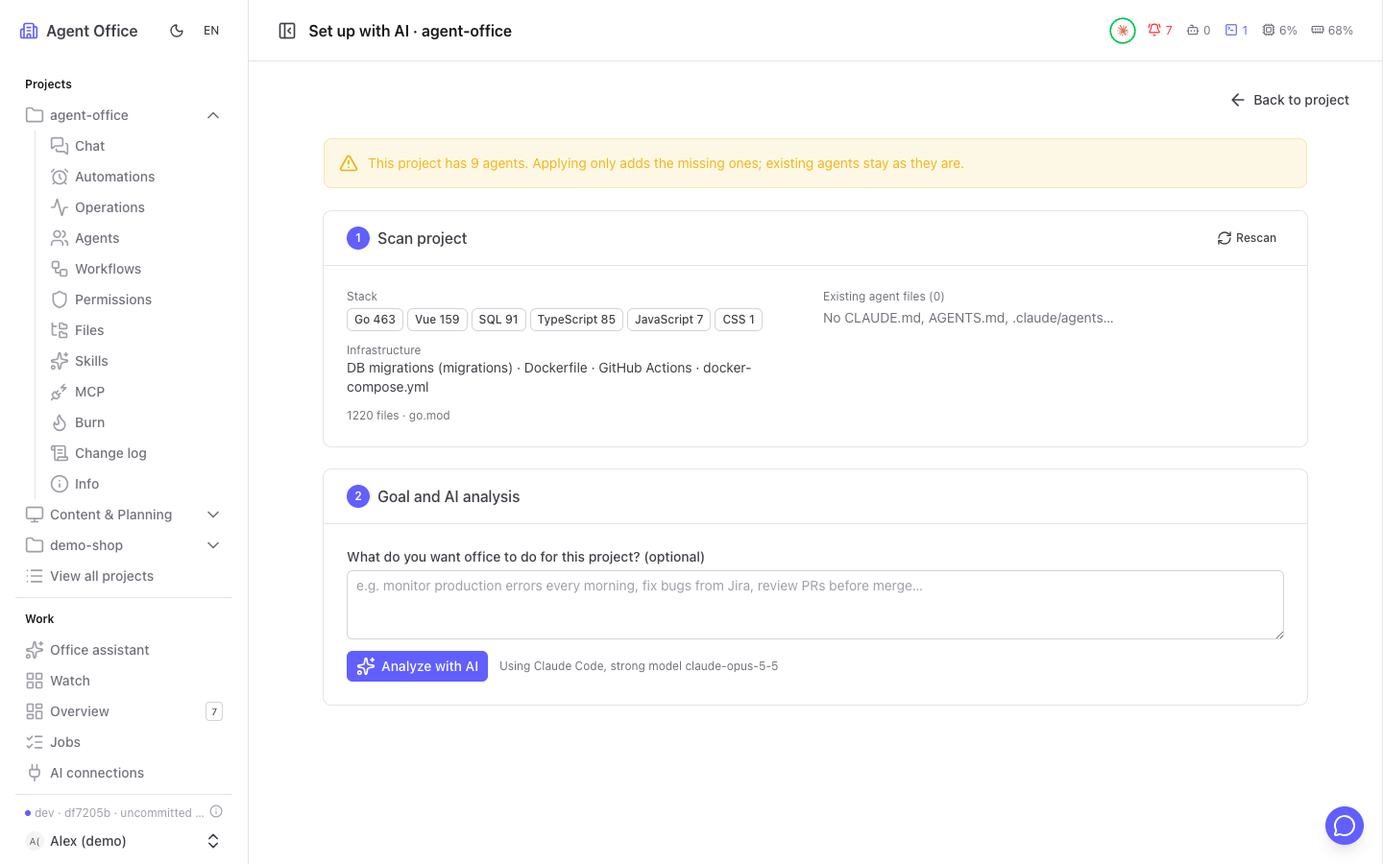
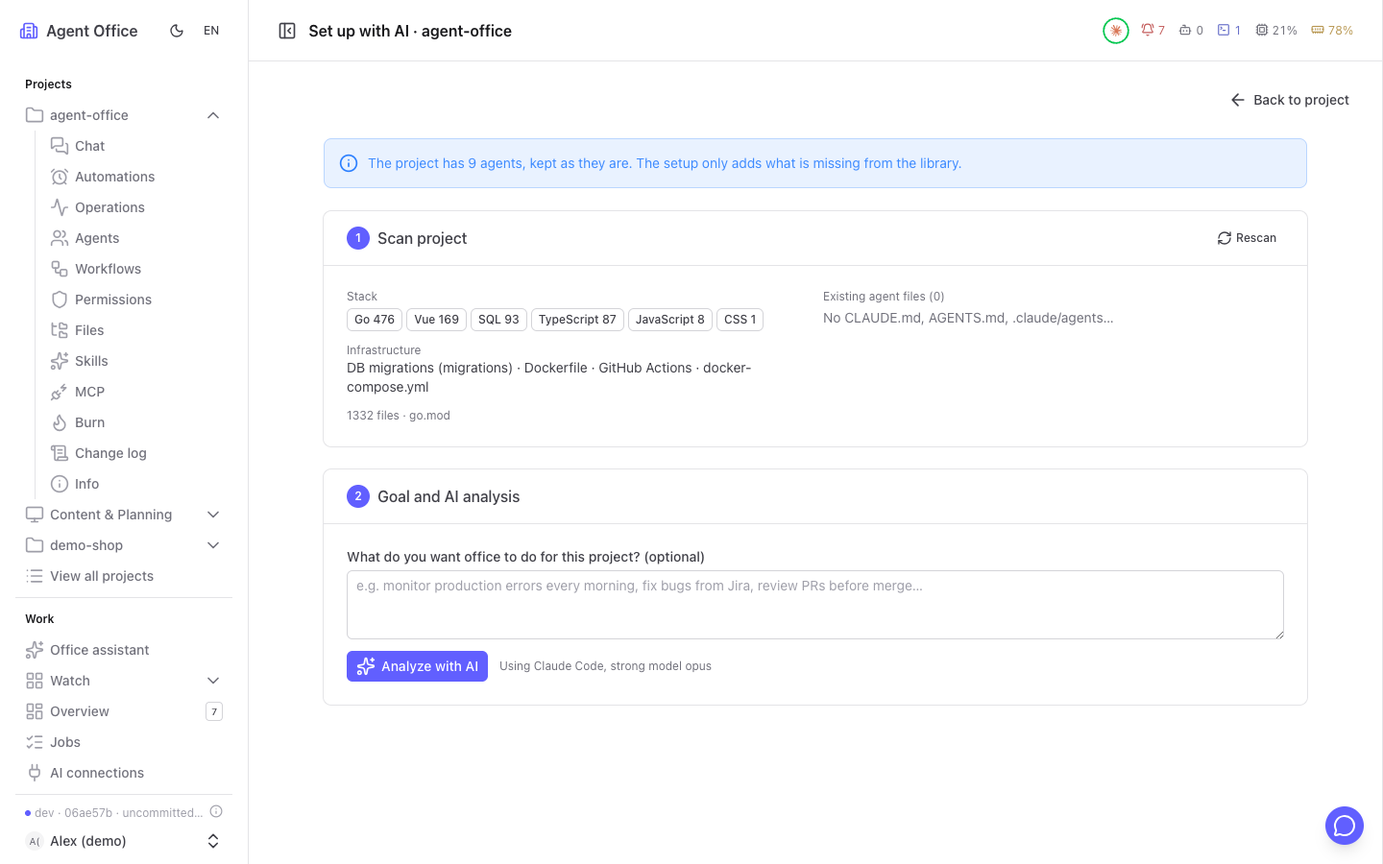
fix(workflow): a seat named as the default agent goes to it; guide without starter packs
Suggest never bound the default agent, so a council whose planner is the
default gave the "Lập kế hoạch" seat to the executor. The default agent
now takes the seat named as it is, and an agent named for a seat is
preferred. The guide describes agents picked from the library (ADR-166),
with fresh screenshots.

diff --git a/docs/guide/vi.html b/docs/guide/vi.html
@@ -123,7 +123,7 @@
   </ol>
   <h4>Đội của bạn</h4>
   <ol>
-    <li><a href="#models">Mô hình tổ chức</a></li>
+    <li><a href="#models">Agent từ thư viện</a></li>
     <li><a href="#agents">Agent</a></li>
     <li><a href="#chat">Chat</a></li>
     <li><a href="#approvals">Duyệt đề xuất</a></li>
@@ -174,7 +174,7 @@
   <h2><span class="num">1</span>agent-office là gì</h2>
   <p class="intro">Hãy hình dung một văn phòng mà nhân viên là các agent AI, còn bạn là người quản lý.</p>
   <div class="cards">
-    <div class="card"><b>👥 Mỗi project một đội</b><span>Trưởng nhóm, kỹ sư, QA, reviewer… xếp theo Solo, Team, Tam quyền hoặc mô hình bạn tự tạo.</span></div>
+    <div class="card"><b>👥 Mỗi project một đội</b><span>Trưởng nhóm, kỹ sư, QA, reviewer… chọn từ thư viện, hoặc để AI chọn theo repo.</span></div>
     <div class="card"><b>🌳 Sửa trong bản sao riêng</b><span>Mỗi chat làm trong git worktree riêng. Bạn xem diff trước khi có gì vào repo.</span></div>
     <div class="card"><b>🔐 Quyền theo từng hành động</b><span>Đọc, sửa, chạy lệnh, khởi động lại container, commit, push: mỗi thứ được phép, phải hỏi, hoặc bị chặn.</span></div>
     <div class="card"><b>⏰ Luôn làm việc</b><span>Lịch chạy, webhook, bot chat, giám sát và Burn giữ công việc chạy cả khi bạn ngủ.</span></div>
@@ -185,7 +185,7 @@
   <table>
     <tr><th>Từ</th><th>Nghĩa</th></tr>
     <tr><td><b>Project</b></td><td>Một thư mục (thường là git repo), một link git để clone, hoặc trợ lý không thư mục cho việc ngoài code.</td></tr>
-    <tr><td><b>Mô hình tổ chức</b></td><td>Tập agent của một project và cách họ phối hợp.</td></tr>
+    <tr><td><b>Thư viện</b></td><td>Mẫu agent, quy trình, tự động hóa, skill và MCP để thêm vào project rồi chỉnh.</td></tr>
     <tr><td><b>Agent</b></td><td>Một nhân viên AI: vai trò, hướng dẫn, kết nối AI, hạng model, quyền, trí nhớ.</td></tr>
     <tr><td><b>Chat</b></td><td>Cuộc trò chuyện với một hoặc nhiều agent. Mỗi chat có worktree riêng.</td></tr>
     <tr><td><b>Đề xuất</b></td><td>Việc agent muốn làm nhưng cần người duyệt: một diff, một lệnh, khởi động lại, đổi cài đặt.</td></tr>
@@ -205,7 +205,7 @@ make ui-install &amp;&amp; make ui-build  # → dashboard/.output
   <ol class="steps">
     <li>Mở <code>http://localhost:2704</code> (hoặc địa chỉ server) và đăng nhập bằng <b><code>admin</code> / <code>admin</code></b>.</li>
     <li>Đặt email và mật khẩu của bạn. Trước khi đặt, tài khoản mặc định không làm được gì khác.</li>
-    <li>Làm theo checklist ở <b>Tổng quan → Máy</b>: kết nối AI → project → mô hình tổ chức.</li>
+    <li>Làm theo checklist ở <b>Tổng quan → Máy</b>: kết nối AI → project → agent.</li>
     <li>Tùy chọn: <code>./bin/office service install --now</code> để office tự bật mỗi khi đăng nhập máy (LaunchAgent trên macOS, systemd user unit trên Linux).</li>
   </ol>
   <figure><img src="images/vi/01-login.png" alt="Trang đăng nhập" loading="lazy"><figcaption>Đăng nhập. Đăng nhập sai bị giới hạn theo IP.</figcaption></figure>
@@ -262,12 +262,12 @@ make ui-install &amp;&amp; make ui-build  # → dashboard/.output
 <section id="projects">
   <h2><span class="num">5</span>Project</h2>
   <p class="intro">Mọi công việc đều nằm trong một project.</p>
-  <figure><img src="images/vi/03-projects.png" alt="Danh sách project" loading="lazy"><figcaption>Ba kiểu project: repo dùng mô hình Team, repo dùng Tam quyền, và trợ lý không thư mục.</figcaption></figure>
+  <figure><img src="images/vi/03-projects.png" alt="Danh sách project" loading="lazy"><figcaption>Ba kiểu project: repo có một đội agent, repo có ba agent Tam quyền, và trợ lý không thư mục.</figcaption></figure>
   <ol class="steps">
     <li><b>Thư mục</b>: chọn một thư mục có sẵn bằng cây thư mục.</li>
     <li><b>Clone</b>: dán link git (https, ssh hoặc dạng scp). Mặc định office clone vào cùng cấp với thư mục chứa office.</li>
     <li><b>Không thư mục</b>: trợ lý cho lập kế hoạch, viết bài hay việc chung của cả máy.</li>
-    <li>Chọn mô hình tổ chức ngay, hoặc để sau ở tab <b>Thông tin</b> của project (<b>Thiết lập bằng AI</b>).</li>
+    <li>Project mới có sẵn agent <b>Trợ lý</b> để chat ngay, rồi mở trang <b>Thiết lập bằng AI</b> để chọn thêm từ thư viện (làm lại được bất cứ lúc nào ở tab <b>Thông tin</b>).</li>
   </ol>
   <p>Trong một project có các tab: <b>Chat</b>, <b>Tự động</b>, <b>Vận hành</b>, <b>Agents</b>, <b>Quyền</b>; admin thấy thêm <b>Files</b>, <b>Skills</b>, <b>MCP</b>, <b>Burn</b>, <b>Nhật ký</b>, <b>Thông tin</b>. Thanh tiêu đề hiện nhánh git kèm nút fetch, commit và push.</p>
 </section>
@@ -275,30 +275,30 @@ make ui-install &amp;&amp; make ui-build  # → dashboard/.output
 <!-- 6 -->
 <section id="setup">
   <h2><span class="num">6</span>Thiết lập bằng AI</h2>
-  <p class="intro">Để một agent đọc repo và đề xuất đội phù hợp.</p>
+  <p class="intro">Để AI đọc repo và chọn từ thư viện những gì project cần.</p>
   <figure><img src="images/vi/18-setup-ai.png" alt="Thiết lập bằng AI" loading="lazy"><figcaption>Project → Thông tin → Thiết lập bằng AI.</figcaption></figure>
   <ol class="steps">
     <li><b>Quét</b> (miễn phí): manifest, framework, file hạ tầng, các file agent sẵn có như <code>CLAUDE.md</code> hay <code>.claude/agents</code>.</li>
-    <li><b>Đề xuất</b>: AI gợi ý mô hình và tinh chỉnh từng agent, có lý do cho mỗi lựa chọn và ước tính chi phí.</li>
-    <li>Đổi mẫu hoặc tùy chọn thì bản xem trước tự dựng lại. Chưa có gì được ghi cho tới khi bạn bấm <b>Tạo</b>.</li>
+    <li><b>Đề xuất</b>: AI chọn agent, quy trình, tự động hóa, skill và MCP từ thư viện, có lý do cho mỗi mục; agent kèm bối cảnh riêng của project.</li>
+    <li>Bỏ tick hoặc bấm <b>Chỉnh</b> (tên, quyền, bối cảnh) trước khi bấm <b>Áp dụng thiết lập</b>. Chỉ thêm: agent đang có giữ nguyên; tự động hóa được tạo ở trạng thái tạm dừng để bạn xem lại lịch/webhook rồi bật.</li>
   </ol>
 </section>
 
 <!-- 7 -->
 <section id="models">
-  <h2><span class="num">7</span>Mô hình tổ chức</h2>
-  <p class="intro">Cách các agent trong project được sắp xếp và ra quyết định.</p>
-  <figure><img src="images/vi/06-team-model.png" alt="Mô hình Team" loading="lazy"><figcaption>Tab Agents: sơ đồ tổ chức của một đội Team. Bấm vào agent để mở chi tiết.</figcaption></figure>
+  <h2><span class="num">7</span>Agent từ thư viện</h2>
+  <p class="intro">Agent của project lấy từ thư viện rồi chỉnh cho hợp; cách phối hợp nằm ở quy trình.</p>
+  <figure><img src="images/vi/06-team-model.png" alt="Agent của project" loading="lazy"><figcaption>Tab Agents: các agent của project, agent mặc định trả lời khi không ai được gọi tên. Bấm vào agent để mở chi tiết.</figcaption></figure>
   <table>
-    <tr><th>Mô hình</th><th>Cách làm việc</th><th>Hợp với</th></tr>
-    <tr><td><b>Solo</b></td><td>Một agent làm hết.</td><td>Repo nhỏ, trợ lý cá nhân.</td></tr>
-    <tr><td><b>Team</b></td><td>Trưởng nhóm lập kế hoạch, chia việc (quy ước chung, tối đa 3 file mỗi việc, không chồng file, có phụ thuộc), các thành viên làm song song, trưởng nhóm gộp và báo cáo.</td><td>Phần lớn project code.</td></tr>
-    <tr><td><b>Tam quyền</b></td><td>Lập pháp, hành pháp, tư pháp: đề xuất được biểu quyết, có thể bị phủ quyết, và kết quả được kiểm tra lại.</td><td>Thay đổi rủi ro, thanh toán, bảo mật.</td></tr>
-    <tr><td><b>Tự tạo</b></td><td>Lưu mô hình của một project làm mẫu, hoặc dựng từ đầu.</td><td>Dùng lại cách làm hiệu quả.</td></tr>
+    <tr><th>Cách dựng đội</th><th>Agent trong thư viện</th><th>Hợp với</th></tr>
+    <tr><td><b>Một agent</b></td><td>Trợ lý.</td><td>Repo nhỏ, trợ lý cá nhân.</td></tr>
+    <tr><td><b>Nhóm</b></td><td>Trưởng nhóm điều phối, cùng các chuyên môn: frontend, backend, QA, review, DevOps… và quy trình Giao lại, Làm tính năng, Review PR.</td><td>Phần lớn project code.</td></tr>
+    <tr><td><b>Tam quyền</b></td><td>Lập kế hoạch, Thực thi, Giám sát với quy trình Hội đồng 3 bên: đề xuất được biểu quyết, có thể bị phủ quyết, và kết quả được kiểm tra lại.</td><td>Thay đổi rủi ro, thanh toán, bảo mật.</td></tr>
   </table>
+  <p><b>Thêm agent</b> mở thư viện: chọn một mẫu, sửa tên, vai trò, hạng model rồi thêm; hướng dẫn và quyền chỉnh tiếp ở trang của agent. Không còn chọn hay thay cả bộ agent một lần: muốn đổi thì thêm, sửa hoặc xóa từng agent (Lịch sử vẫn khôi phục được).</p>
   <div class="row">
-    <figure><img src="images/vi/20-council.png" alt="Mô hình Tam quyền" loading="lazy"><figcaption>Mô hình Tam quyền trên project demo-shop.</figcaption></figure>
-    <figure><img src="images/vi/24-templates.png" alt="Mô hình mẫu" loading="lazy"><figcaption>Mô hình: mẫu có sẵn và mẫu đã lưu, xuất/nhập.</figcaption></figure>
+    <figure><img src="images/vi/20-council.png" alt="Tam quyền" loading="lazy"><figcaption>Ba agent Tam quyền và quy trình Hội đồng 3 bên trên project demo-shop.</figcaption></figure>
+    <figure><img src="images/vi/24-templates.png" alt="Thư viện quy trình" loading="lazy"><figcaption>Thư viện quy trình: mẫu có sẵn và mẫu đã lưu.</figcaption></figure>
   </div>
   <div class="callout tip"><strong>Sửa tới khi đạt</strong>Một việc chạy vòng lặp (sửa → build/test → sửa) cho tới khi kiểm tra đạt. Nó dừng khi không tiến triển được, cần bạn trả lời, hoặc hết ngân sách.</div>
 </section>
@@ -583,10 +583,9 @@ office backup                            # database + khóa mã hóa</code></pre
     <tr><th>Lệnh</th><th>Tác dụng</th></tr>
     <tr><td><code>office run</code></td><td>Supervisor: server API + dashboard, tự bật lại khi dừng, áp dụng bản cập nhật. Cờ: <code>--ui-port</code>, <code>--no-ui</code>, <code>--api</code>, <code>--home</code>.</td></tr>
     <tr><td><code>office serve</code></td><td>Chỉ chạy server API.</td></tr>
-    <tr><td><code>office init [path] [--local] [--template team]</code></td><td>Đăng ký repo và chọn mô hình.</td></tr>
-    <tr><td><code>office project add|list|rm</code></td><td>Quản lý project. Không có path = trợ lý toàn máy.</td></tr>
+    <tr><td><code>office init [path] [--local] [--agent office/team-lead]</code></td><td>Đăng ký repo; mặc định có agent Trợ lý, <code>--agent</code> thêm agent từ thư viện.</td></tr>
+    <tr><td><code>office project add|list|rm</code></td><td>Quản lý project. Không có path = trợ lý toàn máy. <code>add --agent &lt;id&gt; --workflow &lt;key,…&gt;</code> thêm agent và quy trình từ thư viện.</td></tr>
     <tr><td><code>office provider add|list|test</code></td><td>Kết nối AI.</td></tr>
-    <tr><td><code>office template list</code></td><td>Mô hình tổ chức.</td></tr>
     <tr><td><code>office user create|list|passwd</code></td><td>Admin đầu tiên (thay <code>admin</code> / <code>admin</code>), liệt kê tài khoản, đặt lại mật khẩu. Tài khoản sau: tạo trên dashboard, hoặc <code>create --force</code>.</td></tr>
     <tr><td><code>office export | import | backup</code></td><td>Chuyển hoặc sao lưu cài đặt và dữ liệu.</td></tr>
     <tr><td><code>office service install|status|uninstall</code></td><td>Tự bật cùng phiên đăng nhập máy.</td></tr>

diff --git a/docs/guide/index.html b/docs/guide/index.html
@@ -122,7 +122,7 @@
   </ol>
   <h4>Your team</h4>
   <ol>
-    <li><a href="#models">Organisation models</a></li>
+    <li><a href="#models">Agents from the library</a></li>
     <li><a href="#agents">Agents</a></li>
     <li><a href="#chat">Chat</a></li>
     <li><a href="#approvals">Approvals</a></li>
@@ -173,7 +173,7 @@
   <h2><span class="num">1</span>What is agent-office</h2>
   <p class="intro">Think of it as an office where the staff are AI agents and you are the manager.</p>
   <div class="cards">
-    <div class="card"><b>👥 A team per project</b><span>Lead, developers, QA, reviewer… organised as Solo, Team, Council or your own model.</span></div>
+    <div class="card"><b>👥 A team per project</b><span>Lead, developers, QA, reviewer… picked from the library, or by AI from the repo.</span></div>
     <div class="card"><b>🌳 Isolated edits</b><span>Each chat works in its own git worktree. You see a diff before anything reaches your repo.</span></div>
     <div class="card"><b>🔐 Permission per action</b><span>Read, edit, run a command, restart a container, commit, push: each one allowed, asked or blocked.</span></div>
     <div class="card"><b>⏰ Always on</b><span>Schedules, webhooks, chat bots, monitors and Burn keep work moving while you sleep.</span></div>
@@ -184,7 +184,7 @@
   <table>
     <tr><th>Word</th><th>Meaning</th></tr>
     <tr><td><b>Project</b></td><td>A folder (usually a git repo), a cloned URL, or a folder-less helper for non-code work.</td></tr>
-    <tr><td><b>Organisation model</b></td><td>The set of agents in a project and how they work together.</td></tr>
+    <tr><td><b>Library</b></td><td>Ready-made agents, workflows, automations, skills and MCP servers to add to a project and adjust.</td></tr>
     <tr><td><b>Agent</b></td><td>One AI staff member: role, instructions, AI connection, model tier, permissions, memory.</td></tr>
     <tr><td><b>Chat</b></td><td>A conversation with one or more agents. Each chat has its own worktree.</td></tr>
     <tr><td><b>Proposal</b></td><td>Something an agent wants to do that needs a person: a diff, a command, a restart, a settings change.</td></tr>
@@ -204,7 +204,7 @@ make ui-install &amp;&amp; make ui-build  # → dashboard/.output
   <ol class="steps">
     <li>Open <code>http://localhost:2704</code> (or the server's address) and sign in with <b><code>admin</code> / <code>admin</code></b>.</li>
     <li>Set your own email and password. The default account can do nothing else until you do.</li>
-    <li>Follow the checklist on <b>Overview → Machine</b>: AI connection → project → organisation model.</li>
+    <li>Follow the checklist on <b>Overview → Machine</b>: AI connection → project → agents.</li>
     <li>Optional: <code>./bin/office service install --now</code> starts the office every time you log in (LaunchAgent on macOS, systemd user unit on Linux).</li>
   </ol>
   <figure><img src="images/01-login.png" alt="Login page" loading="lazy"><figcaption>Sign in. Failed logins are rate-limited per IP.</figcaption></figure>
@@ -266,7 +266,7 @@ make ui-install &amp;&amp; make ui-build  # → dashboard/.output
     <li><b>Folder</b>: pick an existing folder with the folder tree.</li>
     <li><b>Clone</b>: paste a git URL (https, ssh or scp style). The office clones it next to its own folder by default.</li>
     <li><b>No folder</b>: a helper for planning, writing or anything machine-wide.</li>
-    <li>Choose an organisation model now, or later from the project's <b>Info</b> tab (<b>Set up with AI</b>).</li>
+    <li>A new project starts with the <b>Assistant</b> agent so it can chat at once, then opens <b>Set up with AI</b> to pick more from the library (run it again any time from the <b>Info</b> tab).</li>
   </ol>
   <p>Inside a project the tabs are: <b>Chat</b>, <b>Automations</b>, <b>Operations</b>, <b>Agents</b>, <b>Permissions</b>, and for admins also <b>Files</b>, <b>Skills</b>, <b>MCP</b>, <b>Burn</b>, <b>Change log</b>, <b>Info</b>. The header shows the git branch with fetch, commit and push buttons.</p>
 </section>
@@ -274,30 +274,30 @@ make ui-install &amp;&amp; make ui-build  # → dashboard/.output
 <!-- 6 -->
 <section id="setup">
   <h2><span class="num">6</span>Set up with AI</h2>
-  <p class="intro">Let an agent read the repo and propose the right team.</p>
+  <p class="intro">Let AI read the repo and pick what the project needs from the library.</p>
   <figure><img src="images/18-setup-ai.png" alt="Set up with AI" loading="lazy"><figcaption>Project → Info → Set up with AI.</figcaption></figure>
   <ol class="steps">
     <li><b>Scan</b> (free): manifests, frameworks, infra files, existing agent files such as <code>CLAUDE.md</code> or <code>.claude/agents</code>.</li>
-    <li><b>Propose</b>: the AI suggests a model and tunes each agent, with a reason for every choice and an estimated cost.</li>
-    <li>Change the template or options and the preview rebuilds. Nothing is written until you click <b>Create</b>.</li>
+    <li><b>Propose</b>: the AI picks agents, workflows, automations, skills and MCP servers from the library, with a reason for each; agents come with the project's own context.</li>
+    <li>Untick anything, or click <b>Edit</b> (name, permission, context), before <b>Apply setup</b>. It only adds: current agents stay as they are, and automations are created paused so you check their schedule or webhook first.</li>
   </ol>
 </section>
 
 <!-- 7 -->
 <section id="models">
-  <h2><span class="num">7</span>Organisation models</h2>
-  <p class="intro">How the agents of a project are arranged and how they decide.</p>
-  <figure><img src="images/06-team-model.png" alt="Team model" loading="lazy"><figcaption>The Agents tab: the org chart of a Team. Click an agent to open it.</figcaption></figure>
+  <h2><span class="num">7</span>Agents from the library</h2>
+  <p class="intro">A project's agents come from the library, adjusted to fit; how they work together is a workflow.</p>
+  <figure><img src="images/06-team-model.png" alt="A project's agents" loading="lazy"><figcaption>The Agents tab: the project's agents; the default one answers when nobody is named. Click an agent to open it.</figcaption></figure>
   <table>
-    <tr><th>Model</th><th>How work flows</th><th>Good for</th></tr>
-    <tr><td><b>Solo</b></td><td>One agent does everything.</td><td>Small repos, personal helpers.</td></tr>
-    <tr><td><b>Team</b></td><td>The lead plans, splits work (shared conventions, at most 3 files per task, no overlapping files, dependencies), members work in parallel, the lead merges and reports.</td><td>Most code projects.</td></tr>
-    <tr><td><b>Council</b></td><td>Legislative, executive and judicial roles: proposals are voted on, can be vetoed, and the result is checked.</td><td>Risky changes, payments, security.</td></tr>
-    <tr><td><b>Your own</b></td><td>Save any project's model as a template, or build one from scratch.</td><td>Reusing what works.</td></tr>
+    <tr><th>Team shape</th><th>Library agents</th><th>Good for</th></tr>
+    <tr><td><b>One agent</b></td><td>Assistant.</td><td>Small repos, personal helpers.</td></tr>
+    <tr><td><b>Team</b></td><td>A team lead coordinating specialists: frontend, backend, QA, review, DevOps… with the Handoff, Feature and Review PR workflows.</td><td>Most code projects.</td></tr>
+    <tr><td><b>Council</b></td><td>Planner, Executor and Auditor with the 3-party council workflow: proposals are voted on, can be vetoed, and the result is checked.</td><td>Risky changes, payments, security.</td></tr>
   </table>
+  <p><b>Add agent</b> opens the library: pick one, adjust its name, role and model tier, then add it; its instructions and permissions are edited on its own page. There is no whole-team swap any more: add, edit or remove agents one by one (History can still restore).</p>
   <div class="row">
-    <figure><img src="images/20-council.png" alt="Council model" loading="lazy"><figcaption>A Council model on the demo-shop project.</figcaption></figure>
-    <figure><img src="images/24-templates.png" alt="Templates" loading="lazy"><figcaption>Org models: built-in and saved templates, export/import.</figcaption></figure>
+    <figure><img src="images/20-council.png" alt="Council" loading="lazy"><figcaption>The three council agents and the 3-party council workflow on demo-shop.</figcaption></figure>
+    <figure><img src="images/24-templates.png" alt="Workflow library" loading="lazy"><figcaption>The workflow library: built-in and saved workflows.</figcaption></figure>
   </div>
   <div class="callout tip"><strong>Fix until it passes</strong>A task loops (edit → build/test → fix) until checks pass. It stops when it can't make progress, needs your answer, or runs out of budget.</div>
 </section>
@@ -582,11 +582,10 @@ office backup                            # database + encryption key</code></pre
     <tr><th>Command</th><th>What it does</th></tr>
     <tr><td><code>office run</code></td><td>Supervisor: API server + dashboard, restarts on crash, applies updates. Flags: <code>--ui-port</code>, <code>--no-ui</code>, <code>--api</code>, <code>--home</code>.</td></tr>
     <tr><td><code>office serve</code></td><td>API server only.</td></tr>
-    <tr><td><code>office init [path] [--local] [--template team]</code></td><td>Register a repo and choose a model.</td></tr>
-    <tr><td><code>office project add|list|rm</code></td><td>Manage projects. No path = machine-wide helper.</td></tr>
+    <tr><td><code>office init [path] [--local] [--agent office/team-lead]</code></td><td>Register a repo; it gets the Assistant agent, <code>--agent</code> adds library agents.</td></tr>
+    <tr><td><code>office project add|list|rm</code></td><td>Manage projects. No path = a machine-wide helper. <code>add --agent &lt;id&gt; --workflow &lt;key,…&gt;</code> adds library agents and workflows.</td></tr>
     <tr><td><code>office provider add|list|test</code></td><td>AI connections.</td></tr>
-    <tr><td><code>office template list</code></td><td>Organisation models.</td></tr>
-    <tr><td><code>office user create|list|passwd</code></td><td>The first admin (replaces <code>admin</code> / <code>admin</code>), list accounts, reset a password. Later accounts: on the dashboard, or <code>create --force</code>.</td></tr>
+        <tr><td><code>office user create|list|passwd</code></td><td>The first admin (replaces <code>admin</code> / <code>admin</code>), list accounts, reset a password. Later accounts: on the dashboard, or <code>create --force</code>.</td></tr>
     <tr><td><code>office export | import | backup</code></td><td>Move or back up configuration and data.</td></tr>
     <tr><td><code>office service install|status|uninstall</code></td><td>Start with your login session.</td></tr>
   </table>

diff --git a/internal/workflow/service.go b/internal/workflow/service.go
@@ -116,18 +116,25 @@ func (s *Service) checkBindings(ctx context.Context, projectID string, def Def, 
 
 // Suggest fills the roles of def with agents of the project by what their
 // hints say and what they prefer (a model tier, a vendor family: families
-// maps agent id → family, may be nil), never the default agent (it
-// coordinates), and two roles that work at once never with the same agent.
+// maps agent id → family, may be nil), an agent named as the role first; the
+// default agent (it coordinates) only takes the role named as it is, and two
+// roles that work at once never with the same agent.
 func Suggest(def Def, agents []storage.Agent, defaultID string, families map[string]string) map[string]string {
 	out := map[string]string{}
 	var pool []storage.Agent
+	var coord *storage.Agent
 	for _, a := range storage.OnAgents(agents) {
 		if a.ID != defaultID {
 			pool = append(pool, a)
+		} else {
+			coord = &a
 		}
 	}
 	if len(pool) == 0 {
 		return out // only the coordinator: roles are picked when given out
+	}
+	named := func(a storage.Agent, r Role) bool {
+		return strings.EqualFold(strings.TrimSpace(a.Name), strings.TrimSpace(r.Name))
 	}
 	words := func(s string) []string {
 		return strings.FieldsFunc(strings.ToLower(s), func(r rune) bool {
@@ -144,9 +151,16 @@ func Suggest(def Def, agents []storage.Agent, defaultID string, families map[str
 			n int
 		}
 		var best []scored
-		for _, a := range pool {
+		cands := pool
+		if coord != nil && named(*coord, r) { // the default agent made for this seat (Lập kế hoạch of a council)
+			cands = append([]storage.Agent{*coord}, pool...)
+		}
+		for _, a := range cands {
 			text := strings.ToLower(a.Name + " " + a.Role + " " + a.Description)
 			n := 0
+			if named(a, r) {
+				n += 10
+			}
 			for _, w := range hint {
 				if len([]rune(w)) > 2 && strings.Contains(text, w) {
 					n++

diff --git a/internal/workflow/service_test.go b/internal/workflow/service_test.go
@@ -116,3 +116,29 @@ func (r *contentWriteRaceRepo) UpdateContent(ctx context.Context, w storage.Work
 	}
 	return err
 }
+
+// A council's planner is the default agent: it still takes the seat named
+// as it is, and every seat goes to the agent named for it (ADR-166).
+func TestSuggestNamedSeats(t *testing.T) {
+	def, err := workflow.Parse(workflow.BuiltinSource("council-3"))
+	if err != nil {
+		t.Fatal(err)
+	}
+	agents := []storage.Agent{
+		{ID: "p", Name: "Lập kế hoạch", Role: "Lập pháp: mục tiêu, quy tắc, kế hoạch", ModelTier: "strong", Permissions: storage.Permissions{Level: "read", ReadOnly: true}},
+		{ID: "e", Name: "Thực thi", Role: "Hành pháp: điều phối worker thực hiện", ModelTier: "strong", Permissions: storage.Permissions{Level: "operate"}},
+		{ID: "a", Name: "Giám sát", Role: "Tư pháp: kiểm tra, đánh giá, phủ quyết", ModelTier: "strong", Permissions: storage.Permissions{Level: "read", ReadOnly: true}},
+		{ID: "d", Name: "DevOps", Role: "Build, CI/CD", ModelTier: "balanced", Permissions: storage.Permissions{Level: "operate"}},
+	}
+	got := workflow.Suggest(def, agents, "p", nil)
+	if got["lap-ke-hoach"] != "p" || got["thuc-thi"] != "e" || got["giam-sat"] != "a" {
+		t.Fatalf("bindings = %v", got)
+	}
+	// a default agent not named for a seat still only coordinates
+	def2, _ := workflow.Parse(workflow.BuiltinSource("handoff"))
+	for role, id := range workflow.Suggest(def2, agents, "p", nil) {
+		if id == "p" {
+			t.Fatalf("%s given to the default agent", role)
+		}
+	}
+}
